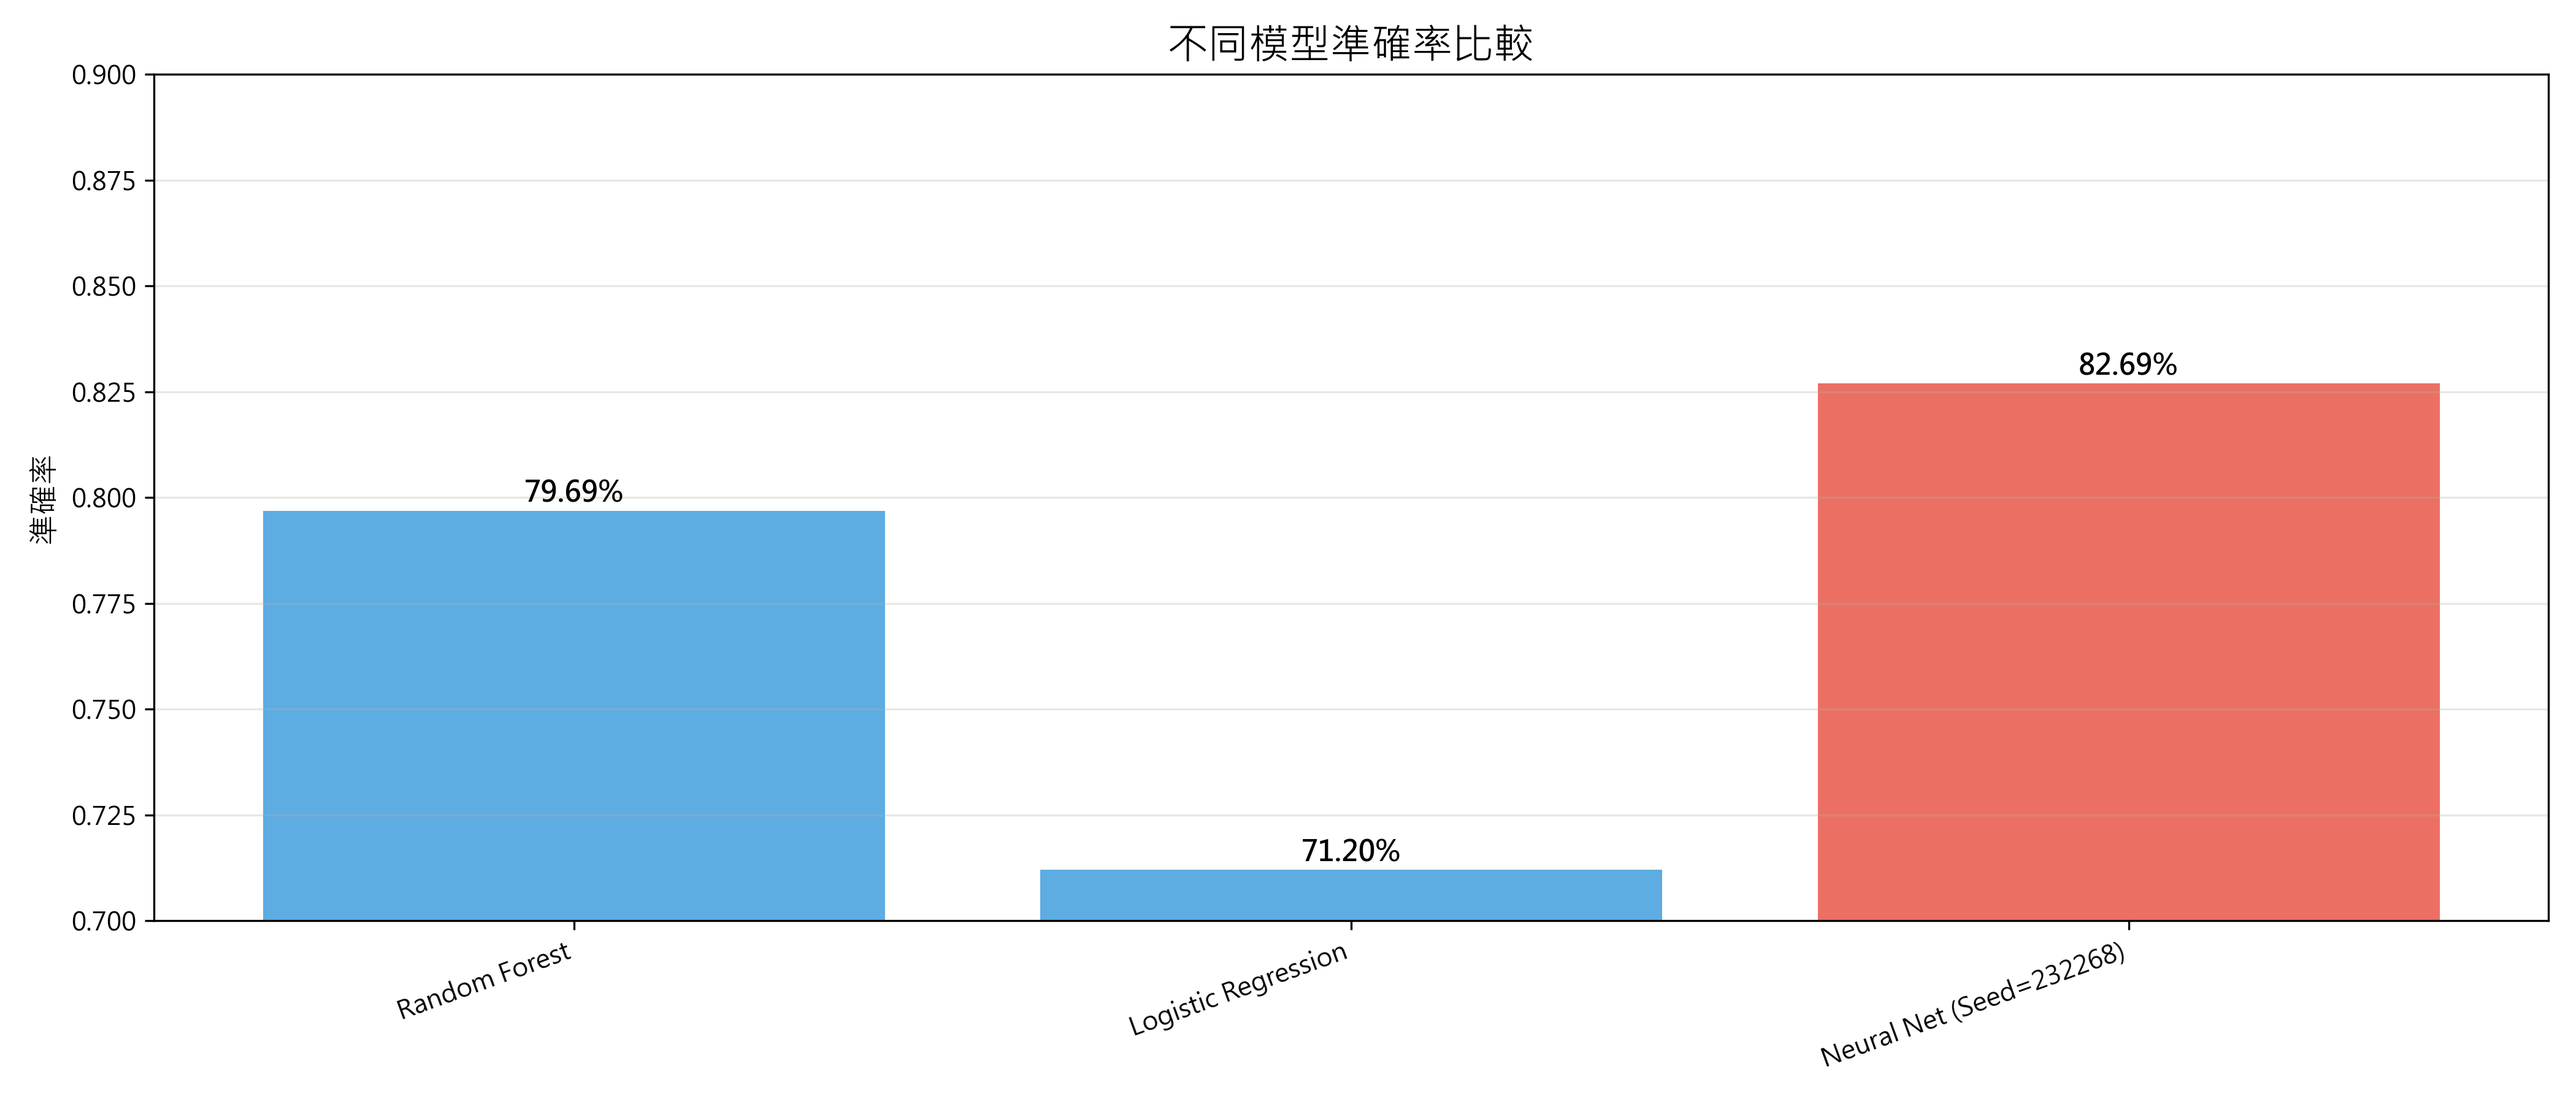
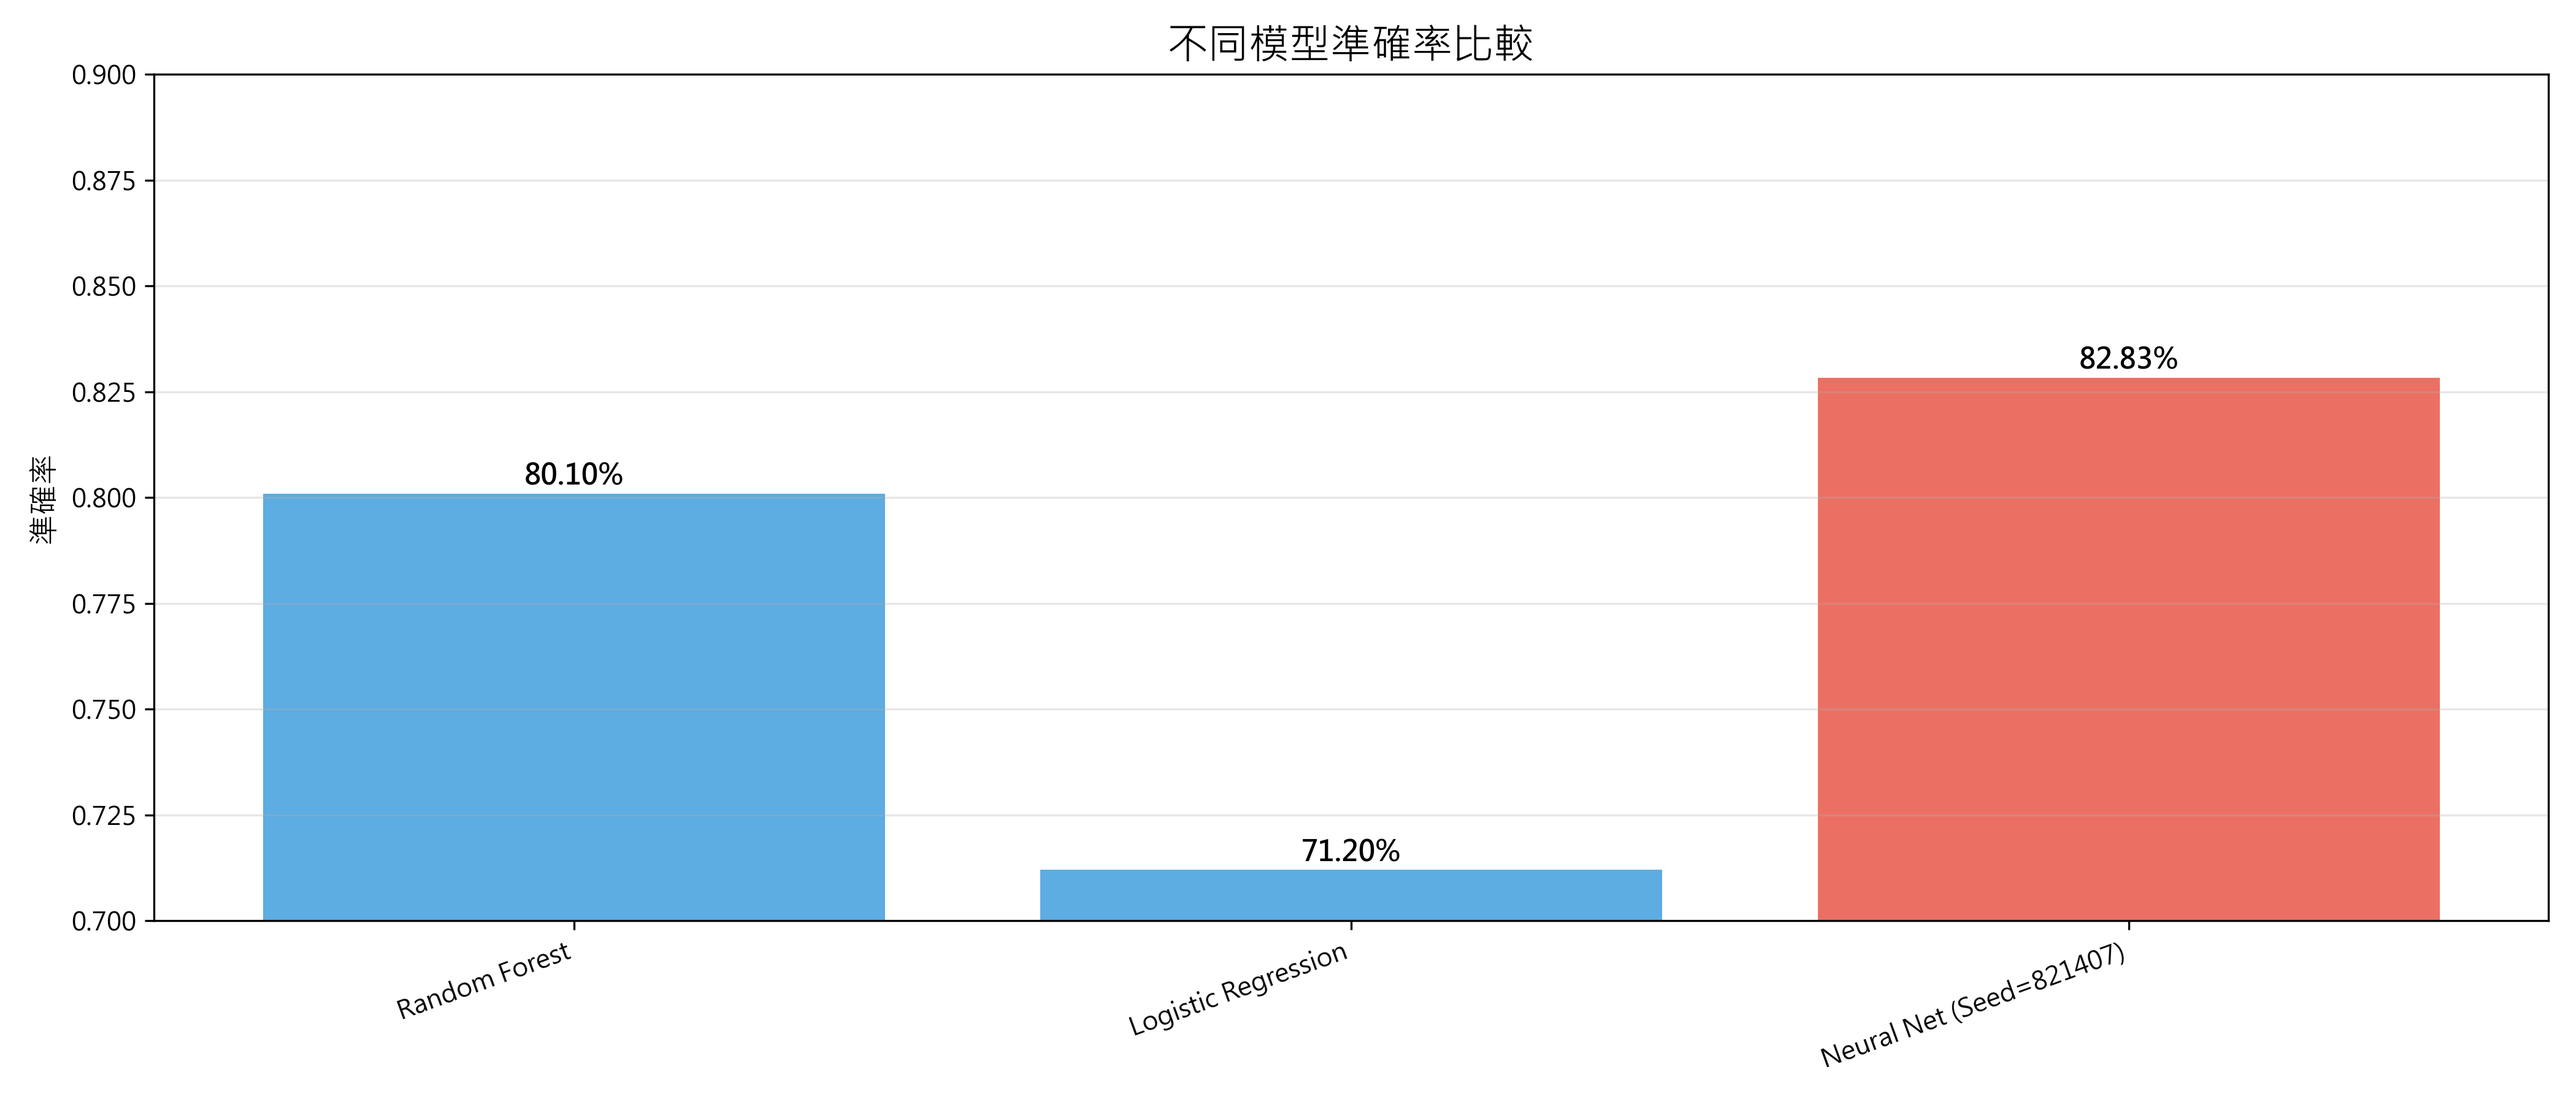
feat: 82.83% keras pytorch 目前測得最佳參數，集成學習 84.75%，seed 821407，Random Forest = 0.79, Keras = 0.21

diff --git a/src/semester-project/08_train_neural_network.pytorch.seed_miner.py b/src/semester-project/08_train_neural_network.pytorch.seed_miner.py
@@ -73,6 +73,26 @@ def build_keras_model(input_dim, num_classes, learning_rate):
     return model
 
 
+def load_tested_seeds_from_csv(csv_file):
+    """從 CSV 讀取已測試過的 seed"""
+    tested_seeds = set()
+
+    if not os.path.isfile(csv_file):
+        return tested_seeds
+
+    try:
+        with open(csv_file, mode="r", encoding="utf-8") as f:
+            reader = csv.DictReader(f)
+            for row in reader:
+                seed = int(row["Seed"])
+                tested_seeds.add(seed)
+        print(f"從 {csv_file} 載入 {len(tested_seeds)} 個已測試的 seed")
+    except Exception as e:
+        print(f"讀取 CSV 時發生錯誤: {e}")
+
+    return tested_seeds
+
+
 def main():
     # 取得系統資訊
     system_name = platform.system()
@@ -121,45 +141,20 @@ def main():
     global_best_acc = 0.0
     best_seed = None
 
-    # 已測試過的 seed 排除清單
-    banned_seeds = {
-        47742,
-        38847,
-        58224,
-        55580,
-        31628,
-        69152,
-        1246,
-        92001,
-        57760,
-        54904,
-        36345,
-        51701,
-        33310,
-        14521,
-        97699,
-        78527,
-        65113,
-        68705,
-        46412,
-        45515,
-        3714,
-        46915,
-        56079,
-        21867,
-        2280,
-        78069,
-        15192,
-        73876,
-        1106,
-        14885,
-        53044,
-        29154,
-        40390,
-        7,
-        143212,
-        232268,
-    }
+    # 從 CSV 載入已測試過的 seed
+    print("\n讀取已測試的 seed...")
+    tested_seeds = load_tested_seeds_from_csv(csv_all_file)
+
+    # 也讀取其他平台的 CSV（避免跨平台重複測試）
+    if system_name == "Windows":
+        other_csv = "output/models/seed_mining_all_linux.csv"
+    else:
+        other_csv = "output/models/seed_mining_all_windows.csv"
+
+    if os.path.isfile(other_csv):
+        other_seeds = load_tested_seeds_from_csv(other_csv)
+        tested_seeds.update(other_seeds)
+        print(f"合併兩平台後，共 {len(tested_seeds)} 個已測試的 seed")
 
     # 載入當前最佳紀錄
     if os.path.exists(results_file):
@@ -174,7 +169,6 @@ def main():
 
     lr = 0.00025
     bs = 20
-    current_session_seeds = set()
     iteration = 0
     start_session_time = time.time()
 
@@ -200,17 +194,28 @@ def main():
     print(f"\n紀錄檔案:")
     print(f"  所有測試: {csv_all_file}")
     print(f"  最佳紀錄: {csv_best_file}")
-    print(f"\n開始挖掘... (每 50 次顯示一次進度)\n")
+    print(f"\n開始挖掘... (每 50 次顯示一次進度)")
+    print(f"已排除 {len(tested_seeds)} 個測試過的 seed\n")
+
+    skipped_count = 0  # 統計跳過的次數
 
     try:
         while True:
             # 隨機生成 seed
             seed = random.randint(1, 1000000)
 
-            if (seed in banned_seeds) or (seed in current_session_seeds):
+            # 檢查是否已測試過
+            if seed in tested_seeds:
+                skipped_count += 1
+                # 每跳過 1000 次顯示一次（避免 seed 空間快用完時卡住）
+                if skipped_count % 1000 == 0:
+                    print(
+                        f"[警告] 已跳過 {skipped_count} 個重複的 seed，可能需要擴大 seed 範圍"
+                    )
                 continue
 
-            current_session_seeds.add(seed)
+            # 加入已測試集合（避免本次 session 內重複）
+            tested_seeds.add(seed)
             iteration += 1
 
             keras.utils.set_random_seed(seed)
@@ -341,7 +346,9 @@ def main():
                 session_time = time.time() - start_session_time
                 avg_time = session_time / iteration
 
-                print(f"[{iteration:4d}] 已測試 {iteration} 個 seed")
+                print(
+                    f"[{iteration:4d}] 已測試 {iteration} 個 seed (跳過 {skipped_count} 個重複)"
+                )
                 print(
                     f"       運行: {session_time/3600:.2f}h | 平均: {avg_time:.1f}s/seed"
                 )
@@ -354,6 +361,7 @@ def main():
         print(f"\n最終統計:")
         print(f"  平台: {platform_info}")
         print(f"  總測試: {iteration} 個 seed")
+        print(f"  跳過重複: {skipped_count} 個")
         print(f"  總時間: {session_time/3600:.2f} 小時")
         print(f"  最佳結果: seed={best_seed}, acc={global_best_acc:.4f}")
         print(f"\n紀錄已儲存至:")

diff --git a/src/semester-project/08_train_neural_network.pytorch.py b/src/semester-project/08_train_neural_network.pytorch.py
@@ -94,7 +94,7 @@ def main():
     print("神經網路模型訓練 (Keras 3 + PyTorch Backend)")
     print("=" * 70)
 
-    TARGET_SEED = 232268
+    TARGET_SEED = 821407
     print(f">>> 最佳 random_seed: {TARGET_SEED}")
     keras.utils.set_random_seed(TARGET_SEED)
 
